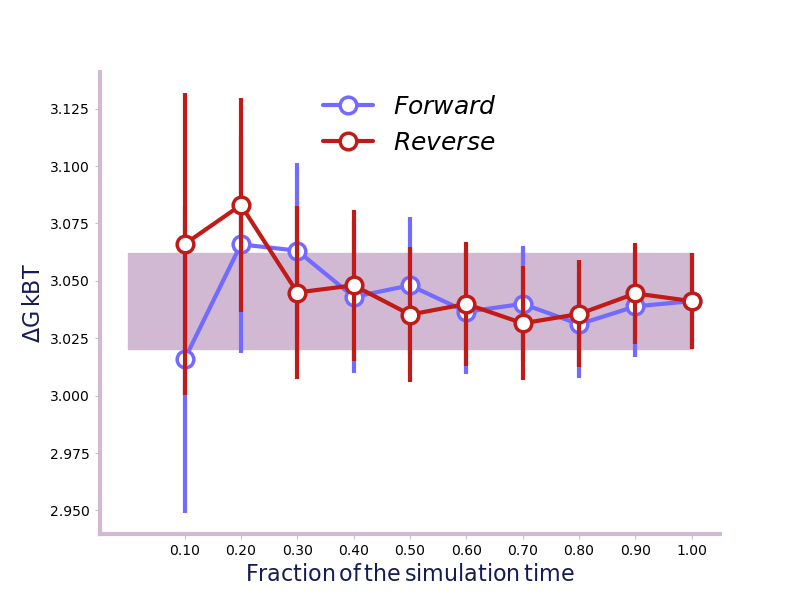
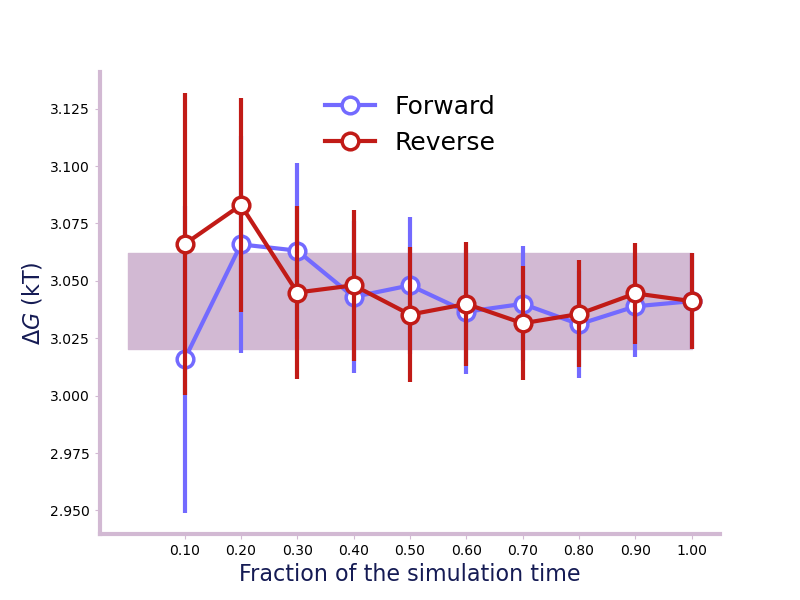
fixed/updated visualization annotations
- fix #133
- added missing versionadded to visualization
- regenerated figures for docs with corrected units
- minor doc fixes

diff --git a/src/alchemlyb/visualisation/mbar_matrix.py b/src/alchemlyb/visualisation/mbar_matrix.py
@@ -6,7 +6,7 @@ the states, the more reliable the estimate is. One way of accessing the
 quality of the overlap matrix is by plotting it.
 
 The code for producing the overlap matrix plot is taken from
-: `Alchemical Analysis <https://github.com/MobleyLab/alchemical-analysis>`_.
+`Alchemical Analysis <https://github.com/MobleyLab/alchemical-analysis>`_.
 
 """
 from __future__ import division
@@ -24,9 +24,9 @@ def plot_mbar_overlap_matrix(matrix, skip_lambda_index=[], ax=None):
         :attr:`~alchemlyb.estimators.MBAR.overlap_matrix`
     skip_lambda_index : List
         list of lambda indices to be omitted from plotting process.
-        Default: [].
+        Default: ``[]``.
     ax : matplotlib.axes.Axes
-        Matplotlib axes object where the plot will be drawn on. If ax=None,
+        Matplotlib axes object where the plot will be drawn on. If ``ax=None``,
         a new axes will be generated.
 
     Returns
@@ -37,7 +37,10 @@ def plot_mbar_overlap_matrix(matrix, skip_lambda_index=[], ax=None):
     Note
     ----
     The code is taken and modified from
-    : `Alchemical Analysis <https://github.com/MobleyLab/alchemical-analysis>`_
+    `Alchemical Analysis <https://github.com/MobleyLab/alchemical-analysis>`_.
+
+
+    .. versionadded:: 0.4.0
 
     '''
     # Compute the size of the figure, if ax is not given.
@@ -60,8 +63,11 @@ def plot_mbar_overlap_matrix(matrix, skip_lambda_index=[], ax=None):
             else:
                 ii = ("{:.2f}".format(matrix[j, i])[1:])
             alf = matrix[j, i] / max_prob
-            ax.fill_between([i, i + 1], [size - j, size - j], [size - (j + 1), size - (j + 1)], color='k', alpha=alf)
-            ax.annotate(ii, xy=(i, j), xytext=(i + 0.5, size - (j + 0.5)), size=8, textcoords='data', va='center',
+            ax.fill_between([i, i + 1], [size - j, size - j],
+                            [size - (j + 1), size - (j + 1)], color='k',
+                            alpha=alf)
+            ax.annotate(ii, xy=(i, j), xytext=(i + 0.5, size - (j + 0.5)),
+                        size=8, textcoords='data', va='center',
                         ha='center', color=('k' if alf < 0.5 else 'w'))
 
     if skip_lambda_index:
@@ -70,11 +76,16 @@ def plot_mbar_overlap_matrix(matrix, skip_lambda_index=[], ax=None):
     else:
         ks = range(size)
     for i in range(size):
-        ax.annotate(ks[i], xy=(i + 0.5, 1), xytext=(i + 0.5, size + 0.5), size=10, textcoords=('data', 'data'),
+        ax.annotate(ks[i], xy=(i + 0.5, 1), xytext=(i + 0.5, size + 0.5),
+                    size=10, textcoords=('data', 'data'),
                     va='center', ha='center', color='k')
-        ax.annotate(ks[i], xy=(-0.5, size - (size - 0.5)), xytext=(-0.5, size - (i + 0.5)), size=10, textcoords=('data', 'data'),
+        ax.annotate(ks[i], xy=(-0.5, size - (size - 0.5)),
+                    xytext=(-0.5, size - (i + 0.5)),
+                    size=10, textcoords=('data', 'data'),
                     va='center', ha='center', color='k')
-    ax.annotate('$\lambda$', xy=(-0.5, size - (size - 0.5)), xytext=(-0.5, size + 0.5), size=10, textcoords=('data', 'data'),
+    ax.annotate(r'$\lambda$', xy=(-0.5, size - (size - 0.5)),
+                xytext=(-0.5, size + 0.5),
+                size=10, textcoords=('data', 'data'),
                 va='center', ha='center', color='k')
     ax.plot([0, size], [0, 0], 'k-', lw=4.0, solid_capstyle='butt')
     ax.plot([size, size], [0, size], 'k-', lw=4.0, solid_capstyle='butt')

diff --git a/src/alchemlyb/visualisation/dF_state.py b/src/alchemlyb/visualisation/dF_state.py
@@ -4,7 +4,7 @@ To assess the quality of the free energy estimation, The dF between adjacent
 lambda states can be ploted to assess the quality of the estimation.
 
 The code for producing the dF states plot is modified based on
-: `Alchemical Analysis <https://github.com/MobleyLab/alchemical-analysis>`_.
+`Alchemical Analysis <https://github.com/MobleyLab/alchemical-analysis>`_.
 
 """
 
@@ -30,7 +30,7 @@ def plot_dF_state(estimators, labels=None, colors=None, units='kT',
     colors : List
         list of colors for plotting different estimators.
     units : str
-        The unit of the estimate. Default: `kT`
+        The unit of the estimate. Default: "kT"
     orientation : string
         The orientation of the figure. Can be `portrait` or `landscape`
     nb : int
@@ -44,11 +44,13 @@ def plot_dF_state(estimators, labels=None, colors=None, units='kT',
     Note
     ----
     The code is taken and modified from
-    : `Alchemical Analysis <https://github.com/MobleyLab/alchemical-analysis>`_
+    `Alchemical Analysis <https://github.com/MobleyLab/alchemical-analysis>`_.
 
     The units variable is for labelling only. Changing it doesn't change the
-    unit of the underlying variable, which is in the unit of kT.
+    unit of the underlying variable, which is in the unit of :math:`kT`.
 
+
+    .. versionadded:: 0.4.0
     '''
     try:
         len(estimators)
@@ -176,7 +178,7 @@ def plot_dF_state(estimators, labels=None, colors=None, units='kT',
             plt.yticks(fontsize=10)
             ax.xaxis.set_ticks([])
             for i in x + 0.5 * width * len(estimators):
-                ax.annotate('$\mathrm{%d-%d}$' % (i, i + 1), xy=(i, 0),
+                ax.annotate(r'$\mathrm{%d-%d}$' % (i, i + 1), xy=(i, 0),
                             xycoords=('data', 'axes fraction'), xytext=(0, -2),
                             size=10, textcoords='offset points', va='top',
                             ha='center')
@@ -193,11 +195,12 @@ def plot_dF_state(estimators, labels=None, colors=None, units='kT',
                          fancybox=True)
         plt.title('The free energy change breakdown', fontsize=12)
         plt.xlabel('States', fontsize=12, color='#151B54')
-        plt.ylabel('$\Delta G$ ' + units, fontsize=12, color='#151B54')
+        plt.ylabel(r'$\Delta G$ ({})'.format(units), fontsize=12, color='#151B54')
     elif orientation == 'portrait':
         leg = ax.legend(lines, labels, loc=0, ncol=2,
                         prop=FP(size=8),
-                        title='$\mathrm{\Delta G\/%s\/}\mathit{vs.}\/\mathrm{lambda\/pair}$' % units,
+                        title=r'$\Delta G$ ({})'.format(units) +
+                              r'$\mathit{vs.}$ lambda pair',
                         fancybox=True)
 
     leg.get_frame().set_alpha(0.5)

diff --git a/src/alchemlyb/visualisation/ti_dhdl.py b/src/alchemlyb/visualisation/ti_dhdl.py
@@ -5,7 +5,7 @@ to lambda state 1 can plotted to assess if the change in dhdl is sampled
 thoroughly.
 
 The code for producing the dhdl plot is modified based on
-: `Alchemical Analysis <https://github.com/MobleyLab/alchemical-analysis>`_.
+`Alchemical Analysis <https://github.com/MobleyLab/alchemical-analysis>`_.
 
 """
 from __future__ import division
@@ -29,9 +29,9 @@ def plot_ti_dhdl(dhdl_data, labels=None, colors=None, units='kT',
         list of colors for plotting all the alchemical transformations.
         Default: ['r', 'g', '#7F38EC', '#9F000F', 'b', 'y']
     units : str
-        The label for the unit of the estimate. Default: `kT`
+        The label for the unit of the estimate. Default: "kT"
     ax : matplotlib.axes.Axes
-        Matplotlib axes object where the plot will be drawn on. If ax=None,
+        Matplotlib axes object where the plot will be drawn on. If ``ax=None``,
         a new axes will be generated.
 
     Returns
@@ -42,11 +42,13 @@ def plot_ti_dhdl(dhdl_data, labels=None, colors=None, units='kT',
     Note
     ----
     The code is taken and modified from
-    : `Alchemical Analysis <https://github.com/MobleyLab/alchemical-analysis>`_
+    `Alchemical Analysis <https://github.com/MobleyLab/alchemical-analysis>`_.
 
     The units variable is for labelling only. Changing it doesn't change the
-    unit of the underlying variable, which is in the unit of kT.
+    unit of the underlying variable, which is in the unit of :math:`kT`.
 
+
+    .. versionadded:: 0.4.0
     '''
     # Make it into a list
     # separate_dhdl method is used so that the input for the actual plotting
@@ -94,7 +96,7 @@ def plot_ti_dhdl(dhdl_data, labels=None, colors=None, units='kT',
             raise ValueError(
                 'Number of colors ({}) should be larger than the number of data ({})'.format(
                     len(labels), len(dhdl_list)))
-        
+
     # Get the real data out
     xs, ndx, dx = [0], 0, 0.001
     min_y, max_y = 0, 0
@@ -171,9 +173,10 @@ def plot_ti_dhdl(dhdl_data, labels=None, colors=None, units='kT',
             ax.yaxis.set_minor_locator(AML())
     ax.grid(which='both', color='w', lw=0.25, axis='y', zorder=12)
     ax.set_ylabel(
-        r'$\mathrm{\langle{\frac{ \partial U } { \partial \lambda }}\rangle_{\lambda}\/%s}$' % units,
+        r'$\langle{\frac{\partial U}{\partial\lambda}}\rangle_{\lambda}$' +
+        '({})'.format(units),
         fontsize=20, color='#151B54')
-    ax.annotate('$\mathit{\lambda}$', xy=(0, 0), xytext=(0.5, -0.05), size=18,
+    ax.annotate(r'$\mathit{\lambda}$', xy=(0, 0), xytext=(0.5, -0.05), size=18,
                 textcoords='axes fraction', va='top', ha='center',
                 color='#151B54')
     lege = ax.legend(prop=FP(size=14), frameon=False, loc=1)

diff --git a/src/alchemlyb/visualisation/convergence.py b/src/alchemlyb/visualisation/convergence.py
@@ -17,9 +17,9 @@ def plot_convergence(forward, forward_error, backward, backward_error,
     backward_error : List
         A list of error from the last X% of data.
     units : str
-        The label for the unit of the estimate. Default: `kT`
+        The label for the unit of the estimate. Default: "kT"
     ax : matplotlib.axes.Axes
-        Matplotlib axes object where the plot will be drawn on. If ax=None,
+        Matplotlib axes object where the plot will be drawn on. If ``ax=None``,
         a new axes will be generated.
 
     Returns
@@ -30,11 +30,13 @@ def plot_convergence(forward, forward_error, backward, backward_error,
     Note
     ----
     The code is taken and modified from
-    : `Alchemical Analysis <https://github.com/MobleyLab/alchemical-analysis>`_
+    `Alchemical Analysis <https://github.com/MobleyLab/alchemical-analysis>`_.
 
     The units variable is for labelling only. Changing it doesn't change the
-    unit of the underlying variable, which is in the unit of kT. The
-    scaling_factor is used to change the number to the desired unit.
+    unit of the underlying variable, which is in the unit of :math:`kT`.
+
+
+    .. versionadded:: 0.4.0
     """
     if ax is None: # pragma: no cover
         fig, ax = plt.subplots(figsize=(8, 6))
@@ -64,7 +66,7 @@ def plot_convergence(forward, forward_error, backward, backward_error,
     plt.xticks(r_ts[::2], fontsize=10)
     plt.yticks(fontsize=10)
 
-    ax.legend((line1[0], line2[0]), (r'$Forward$', r'$Reverse$'), loc=9,
+    ax.legend((line1[0], line2[0]), ('Forward', 'Reverse'), loc=9,
                     prop=FP(size=18), frameon=False)
     ax.set_xlabel(r'Fraction of the simulation time', fontsize=16,
                   color='#151B54')
